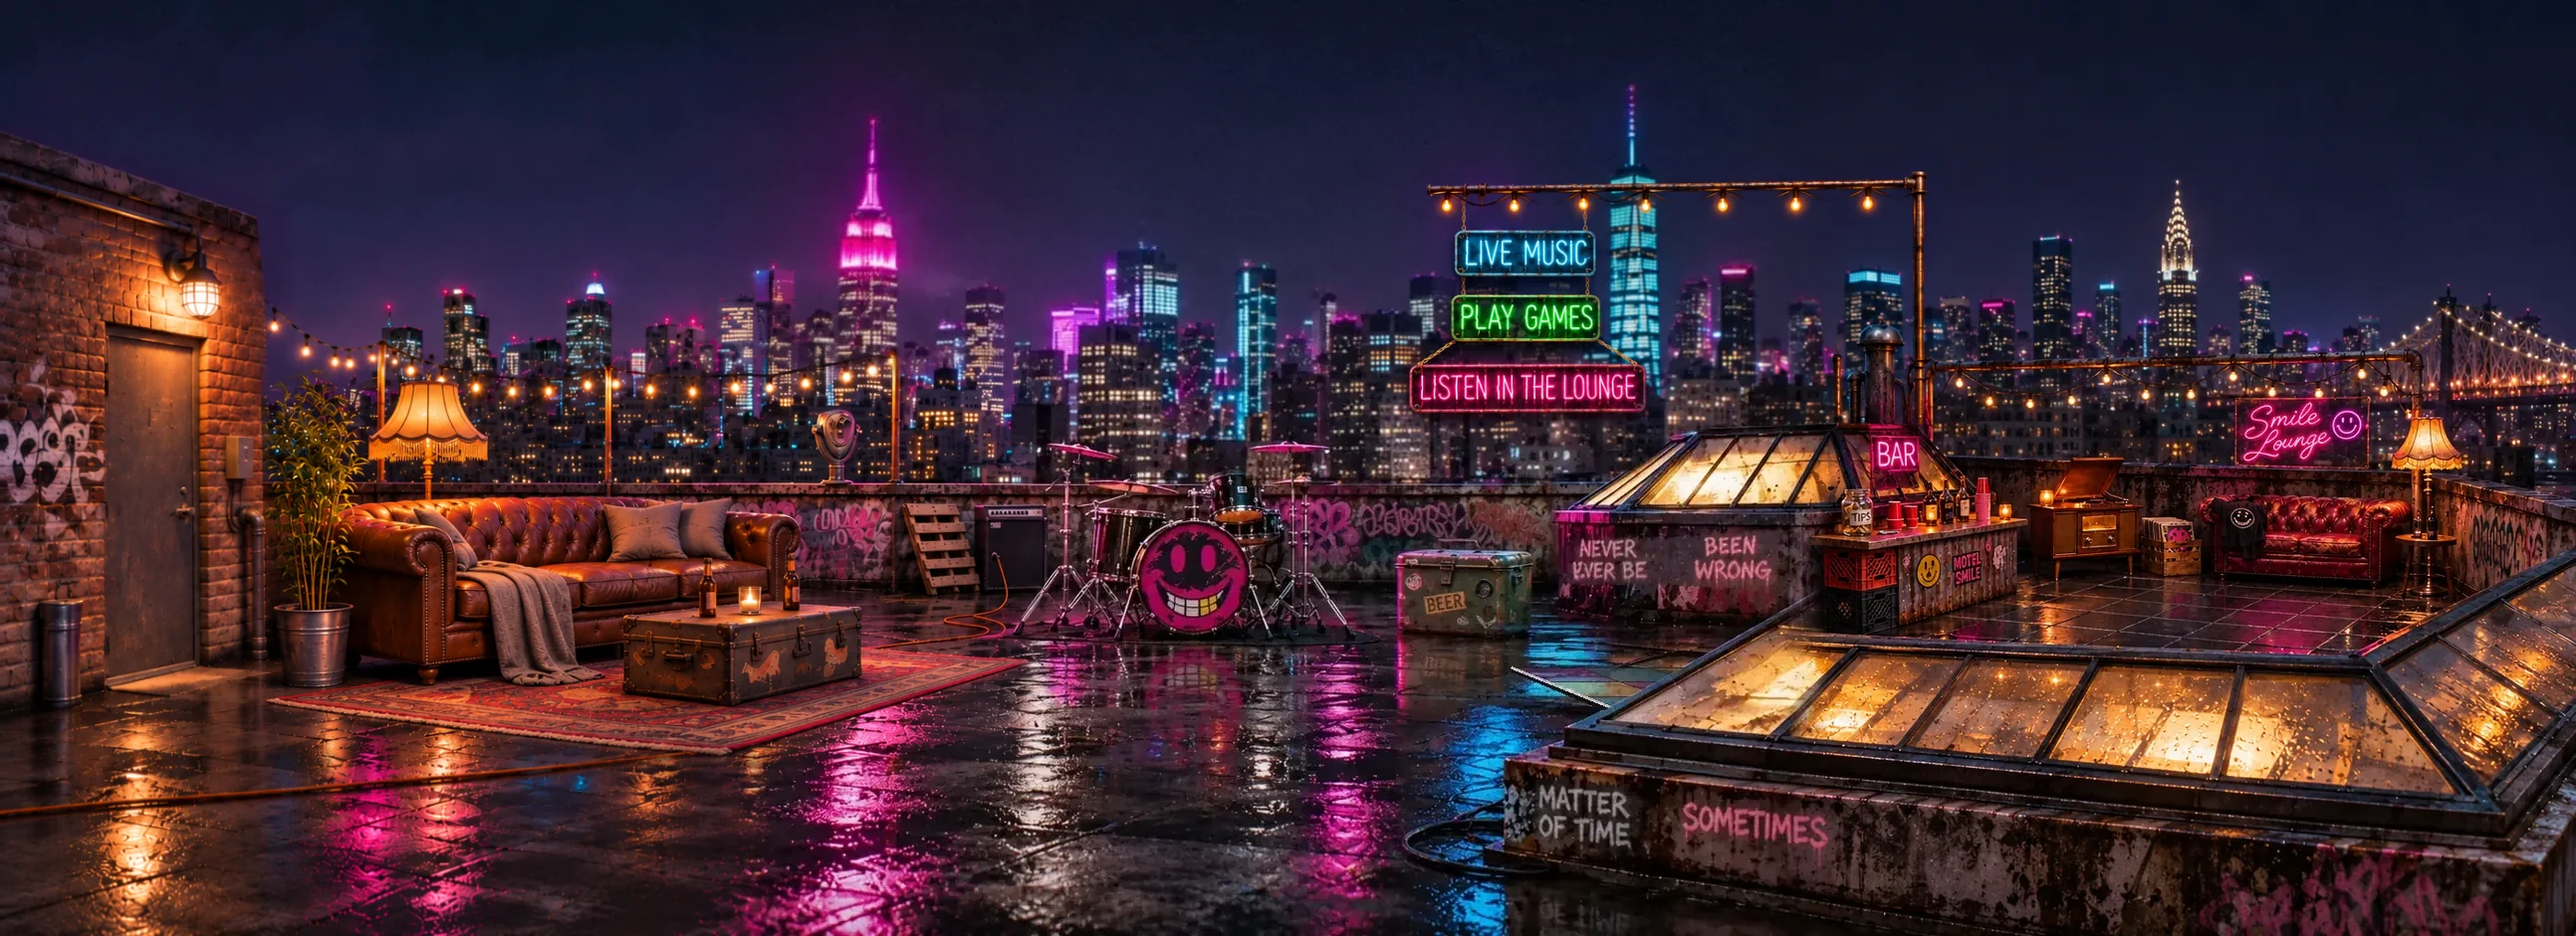
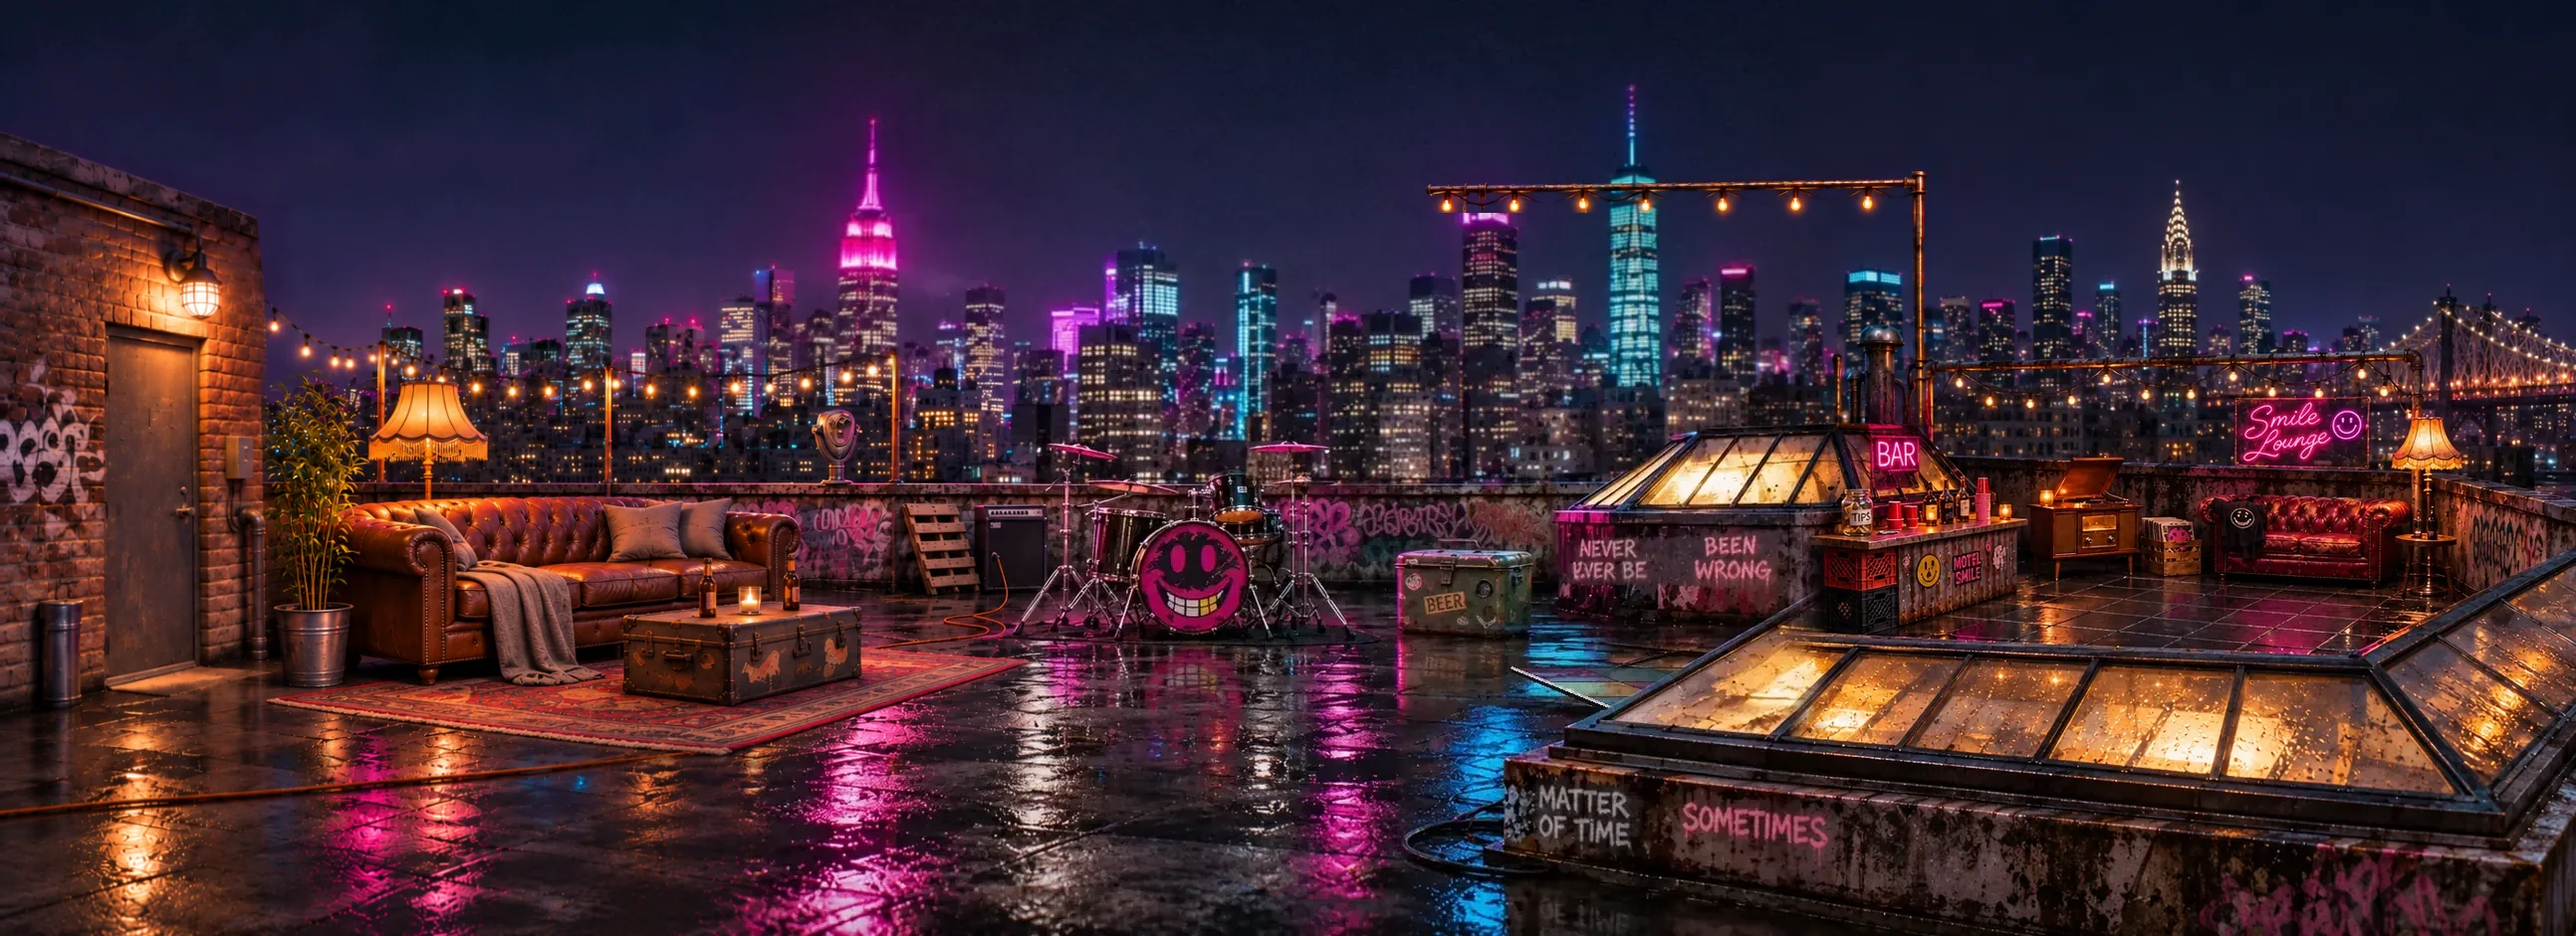
Lounge sign hangs crooked; sign stack is its own layer and sways gently on its chains (tap areas sway with it)
Claude-Session: https://claude.ai/code/session_011gssdMsenVXumrh9a32rRB

Changed region(s): [[0.5257, 0.1849, 0.6494, 0.4623], [0.7112, 0.1849, 0.7422, 0.2157]]

diff --git a/index.html b/index.html
@@ -288,9 +288,10 @@ window.MSFit=(w,h,W0,H0)=>{ const cov=Math.max(w/W0,h/H0), con=Math.min(w/W0,h/H
     <a class="pk" id="pk-floor" href="#lounge" data-lounge style="left:1850px;top:578px;width:436px;height:74px;clip-path:polygon(2% 0,100% 0,89% 100%,0 100%)" aria-label="Dance floor: go to the Smile Lounge"></a>
     <a class="pk" id="pk-bar" href="#lounge" data-lounge style="left:1648px;top:428px;width:206px;height:192px" aria-label="The bar: go to the Smile Lounge"></a>
     <a class="pk" id="pk-couch" href="#lounge" data-lounge style="left:1860px;top:400px;width:440px;height:178px" aria-label="The lounge: record player and couch"></a>
-    <button class="pk ns" id="ns-live" style="left:1285px;top:231px;width:144px;height:48px" aria-label="Live music: shows"></button>
-    <button class="pk ns" id="ns-games" style="left:1280px;top:295px;width:153px;height:49px" aria-label="Play games"></button>
-    <button class="pk ns" id="ns-listen" style="left:1239px;top:365px;width:240px;height:50px" aria-label="Listen in the lounge"></button>
+    <div id="sway" aria-hidden="false"><img id="sway-img" src="img/signs-stack.webp?v=1" alt="" width="290" height="240">
+      <button class="pk ns" id="ns-live" style="left:1284px;top:230px;width:145px;height:48px" aria-label="Live music: shows"></button>
+      <button class="pk ns" id="ns-games" style="left:1280px;top:294px;width:153px;height:49px" aria-label="Play games"></button>
+      <button class="pk ns" id="ns-listen" style="left:1235px;top:369px;width:246px;height:46px;transform:rotate(-4deg)" aria-label="Listen in the lounge"></button></div>
     <a class="pk" id="pk-arcade" hidden href="#arcade" data-arcade style="display:none;left:335px;top:318px;width:128px;height:245px" aria-label="Arcade: go to the game corner"></a>
     <canvas id="pat-fx" width="1672" height="941"></canvas>
     <div id="tags"></div>
@@ -2484,7 +2485,7 @@ body.gg-on .lg-panel,body.gg-on .lg-tag,body.gg-on .lg-hint,body.gg-on .lg-swipe
   function render(c){
     seo(c);
     const hints=c.site&&c.site.showSetupHints;
-    $("stage").style.backgroundImage=`url("${"img/roof-v2.webp?v=10"}")`; /* wide roof with the lounge (2412x941); content.json hero is the old 1672 plate */
+    $("stage").style.backgroundImage=`url("${"img/roof-v2.webp?v=11"}")`; /* wide roof with the lounge (2412x941); content.json hero is the old 1672 plate */
     const m=c.music,f=m.featured;
     const sub=[f.status,f.length].filter(Boolean).join(" · ");
     $("t-listen").textContent=f.title+" ▸"; $("t-listen-sub").textContent=sub;
@@ -4417,6 +4418,13 @@ body.ph #enter-lng{bottom:84px;font-size:15px;padding:10px 18px}
 #play .ns::after{content:"";position:absolute;inset:-26px -30px;border-radius:40px;background:radial-gradient(closest-side,color-mix(in srgb,var(--nc) 38%,transparent),transparent);opacity:0;mix-blend-mode:screen;pointer-events:none;transition:opacity .3s}
 #play .ns:hover::before,#play .ns:focus-visible::before{animation:nsOn .55s steps(1,end) forwards}
 #play .ns:hover::after,#play .ns:focus-visible::after{opacity:1}
+#sway{position:absolute;left:0;top:0;width:0;height:0;z-index:5;transform-origin:1356px 190px;animation:sway 6.5s ease-in-out infinite;will-change:transform}
+#sway-img{position:absolute;left:1215px;top:210px;width:290px;height:240px;pointer-events:none;max-width:none}
+#ns-listen{animation:sway2 4.3s ease-in-out infinite;transform-origin:50% -40px}
+@keyframes sway{0%,100%{transform:rotate(-.55deg)}50%{transform:rotate(.55deg)}}
+@keyframes sway2{0%,100%{rotate:0deg}50%{rotate:.35deg}}
+@media (prefers-reduced-motion:reduce){#sway,#ns-listen{animation:none}}
+body.ph #sway{display:none}
 #ns-live{--nc:#3ce6ff}#ns-games{--nc:#5dff9e}#ns-listen{--nc:#ff3d7f}
 @keyframes nsOn{0%{opacity:.9}12%{opacity:.1}22%{opacity:1}34%{opacity:.25}46%{opacity:1}100%{opacity:1}}
 @media (prefers-reduced-motion:reduce){#play .ns:hover::before,#play .ns:focus-visible::before{animation:none;opacity:1}}
